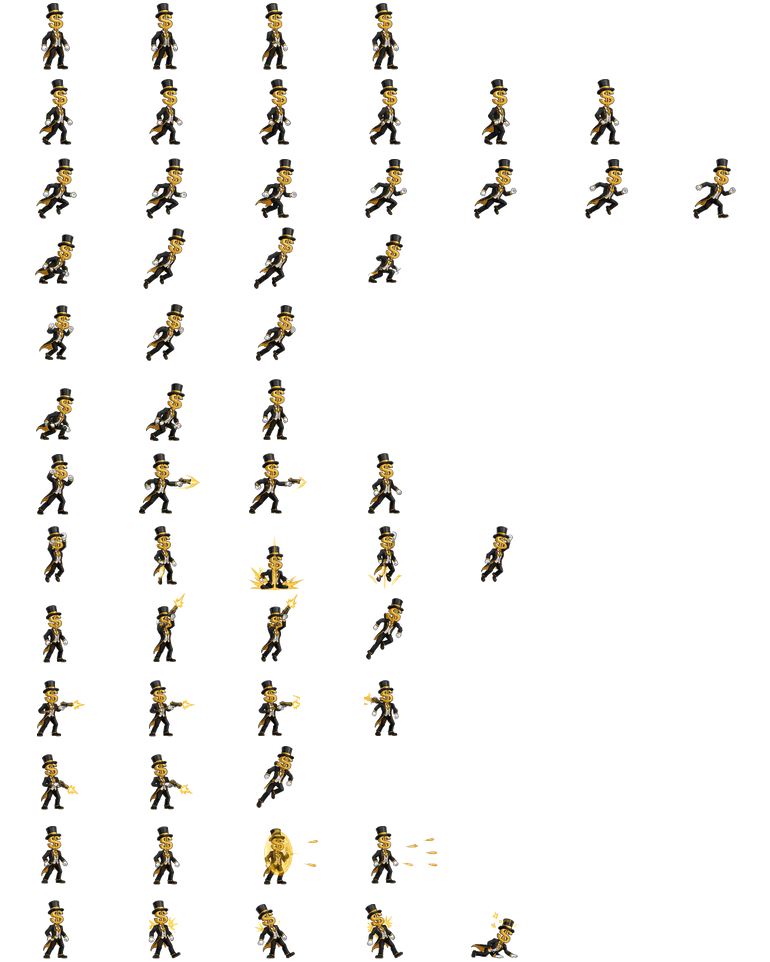
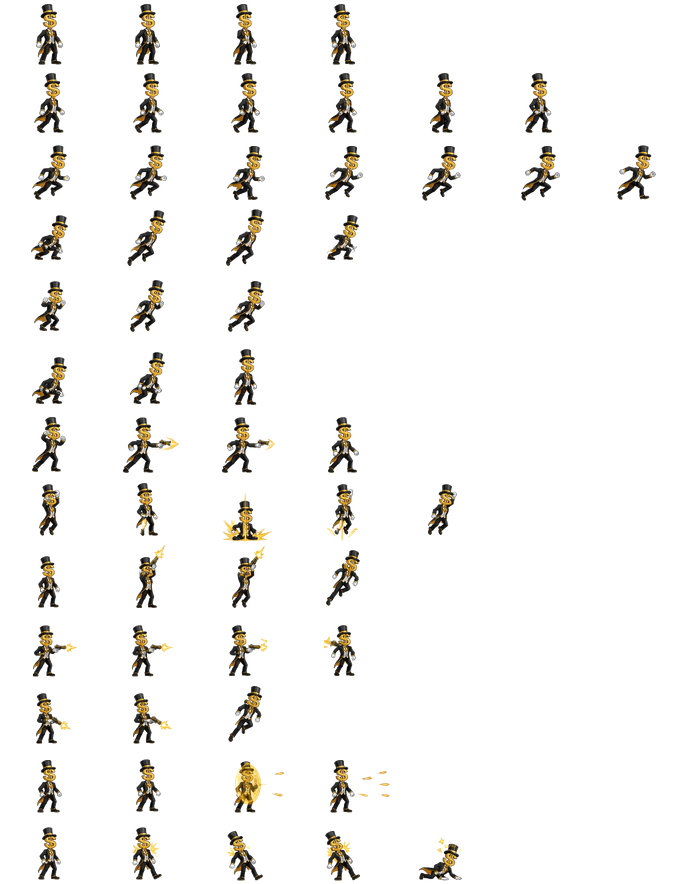
update

diff --git a/src/game.js b/src/game.js
@@ -15,11 +15,12 @@ const CONFIGS = {
   bay: { name: 'BAYONET', maxBW: 70, cost: 28, cd: 240, spread: 0.2, recoil: 480, shotDmg: 1, bashDmg: 2, pogo: 700, stagger: 300, life: 500, desc: '2x Bash dmg, huge pogo | wild spread, 70 BW cap' },
   pre: { name: 'PRECISION', maxBW: 100, cost: 25, cd: 480, spread: 0, recoil: 600, shotDmg: 2, bashDmg: 0.6, pogo: 530, stagger: 1200, life: 1400, desc: 'exact 2-dmg shots | weak Bash that stuns | slow fire' },
 };
-// Revolver is drawn only while firing. Shoulder = fixed offset from Kern's feet (source-art units, scaled by KERN.k); the arm reaches
-// from the shoulder toward the aim point, the gun's grip pivot sits in the glove and the muzzle comes from the sprite, so the gun can
-// never drift from the hand in any animation or direction.
-const GUN_S = 0.6, ARM = 12, SHO = [4, -27];
-const WEAPONS = { std: { px: 9.4, py: 23.0, tx: 46, ty: 21.5 }, pre: { px: 9.8, py: 17.0, tx: 46, ty: 19.0 }, bay: { px: 9.1, py: 24.0, tx: 46, ty: 23.0 } };
+// Revolver is drawn only while firing. The arm is baked into kern3's pointing poses: aim angle -> nearest of E / NE / SE (mirrored for the
+// left side; N reuses NE, S reuses SE) and the gun sits in that pose's glove at the TRUE aim angle, so barrel and bullet always agree.
+// dx/dy = glove position relative to Kern's feet anchor (detected from the art, not eyeballed).
+const GUN_S = 0.58, PX = 62 / 64;
+const POSES = { E: { f: 0, dx: 10.6, dy: -30.1 }, NE: { f: 1, dx: 9.6, dy: -42.2 }, SE: { f: 2, dx: 8.7, dy: -18.3 } };
+const WEAPONS = { std: { px: 9.4, py: 23.0, tx: 46, ty: 21.5 }, pre: { px: 9.8, py: 17.0, tx: 46, ty: 19.0 }, bay: { px: 9.1, py: 23.0, tx: 46, ty: 23.0 } };
 const TEAL = 0x2fe0c8, MID = 0x1d2631, ORG = 0xff8a3d, BLOCK = ['bash', 'dbash', 'rebound', 'parry', 'dmg', 'ko'];
 const Rect = Phaser.Geom.Rectangle, hit = (a, b) => Phaser.Geom.Intersects.RectangleToRectangle(a, b);
 
@@ -28,7 +29,8 @@ class Boot extends Phaser.Scene {
   preload() {
     const t = this.add.text(480, 270, 'LOADING', { fontFamily: 'monospace', fontSize: '18px', color: '#2fe0c8' }).setOrigin(0.5);
     this.load.on('progress', v => t.setText('LOADING ' + Math.round(v * 100) + '%'));
-    this.load.spritesheet('kernsheet', 'assets/kern/kern.png', { frameWidth: KERN.fw, frameHeight: KERN.fh });
+    this.load.spritesheet('kernsheet', 'assets/kern/kern.png', { frameWidth: KERN.fw, frameHeight: KERN.fh }); // painterly: bash + pogo only
+    ['idle', 'aim', 'loco'].forEach(n => this.load.spritesheet('kpx_' + n, 'assets/kern/kern_' + n + '.png', { frameWidth: 64, frameHeight: 64 })); // pixel art
     ['std', 'bay', 'pre'].forEach(k => this.load.image('lw_' + k, 'assets/weapons/lastwords_' + k + '.png'));
     this.load.audio('disc', 'assets/audio/disconnected.mp3');
   }
@@ -53,7 +55,7 @@ class Main extends Phaser.Scene {
     this.cfgKey = this.registry.get('cfg') || 'std'; this.cfg = CONFIGS[this.cfgKey];
     Object.assign(this, { bw: Math.min(this.cfg.maxBW, snap ? snap.bw : 999), hp: snap ? snap.hp : TUNE.hp, now: 0, inv: 0, hurtUntil: 0, recoilUntil: 0, shotCd: 0, bashCd: 0, parryUntil: 0, parryCd: 0,
       coyote: 0, jbuf: 0, jumping: false, curMax: TUNE.walk, gT: 0, bashS: null, dead: false, won: false, menu: false, wantBash: false, noBw: 0, stopped: false, kick: 0, wasG: false, lastVy: 0,
-      act: null, lean: 0, gunUntil: 0, faceLeft: false, cp: !!snap, picked: new Set(snap ? snap.picked : []), killed: new Set(snap ? snap.killed : []) });
+      act: null, lean: 0, barrierFlash: 0, gunUntil: 0, faceLeft: false, cp: !!snap, picked: new Set(snap ? snap.picked : []), killed: new Set(snap ? snap.killed : []) });
     this.safe = snap ? { x: snap.x, y: snap.y } : { x: 120, y: GY - 30 };
     this.physics.world.setBounds(0, 0, W, 1400); cam.setBounds(0, 0, W, H).setBackgroundColor('#0a0e13');
     this.input.mouse.disableContextMenu(); this.input.on('pointerdown', p => { if (p.rightButtonDown()) this.wantBash = true; });
@@ -94,6 +96,15 @@ class Main extends Phaser.Scene {
       const c = this.textures.createCanvas('glow', 64, 64), x = c.getContext(), r = x.createRadialGradient(32, 32, 0, 32, 32, 32);
       r.addColorStop(0, 'rgba(255,255,255,1)'); r.addColorStop(0.35, 'rgba(255,255,255,0.35)'); r.addColorStop(1, 'rgba(255,255,255,0)'); x.fillStyle = r; x.fillRect(0, 0, 64, 64); c.refresh();
     }
+    if (!this.textures.exists('barrier')) {
+      const c = this.textures.createCanvas('barrier', 40, 84), x = c.getContext(), gr = x.createLinearGradient(0, 0, 40, 0);
+      gr.addColorStop(0, 'rgba(47,224,200,0.05)'); gr.addColorStop(1, 'rgba(47,224,200,0.45)');
+      x.fillStyle = gr; x.beginPath(); x.ellipse(4, 42, 30, 38, 0, -Math.PI / 2, Math.PI / 2); x.fill();
+      x.strokeStyle = 'rgba(190,255,248,0.95)'; x.lineWidth = 3; x.beginPath(); x.ellipse(4, 42, 30, 38, 0, -Math.PI / 2, Math.PI / 2); x.stroke();
+      x.strokeStyle = 'rgba(47,224,200,0.35)'; x.lineWidth = 1;
+      for (let y = 10; y < 76; y += 8) { x.beginPath(); x.moveTo(6, y); x.lineTo(4 + 30 * Math.sqrt(1 - ((y - 42) / 38) ** 2) - 2, y); x.stroke(); }
+      c.refresh();
+    }
     mk('bench', 64, 44, g => {
       g.fillStyle(0x10161d).fillRect(2, 24, 60, 6).fillRect(6, 30, 5, 14).fillRect(53, 30, 5, 14).fillStyle(0x2c4151).fillRect(2, 24, 60, 2);
       g.fillStyle(0x0b0f14).fillRect(10, 2, 30, 20).lineStyle(1, TEAL).strokeRect(10.5, 2.5, 29, 19); g.fillStyle(0x1f7f78).fillRect(13, 5, 24, 14).fillStyle(TEAL).fillRect(15, 8, 12, 2).fillRect(15, 12, 18, 2).fillRect(15, 15, 8, 2);
@@ -110,13 +121,12 @@ class Main extends Phaser.Scene {
   }
 
   kernAnims() {
-    const A = (key, name, fps, rep = 0, frames) => {
-      if (this.anims.exists(key)) return;
-      const r = KERN.rows[name], list = frames || [...Array(KERN.n[name]).keys()];
-      this.anims.create({ key, frames: list.map(i => ({ key: 'kernsheet', frame: r * KERN.cols + i })), frameRate: fps, repeat: rep });
-    };
-    A('idle', 'idle', 5, -1); A('walk', 'walk', 10, -1); A('run', 'run', 14, -1); A('jump', 'jump', 16); A('fall', 'fall', 10, -1); A('land', 'land', 24);
-    A('bash', 'bash', 22); A('dbash', 'dbash', 18, 0, [0, 1]); A('rebound', 'dbash', 14, 0, [2, 3, 4]); A('parry', 'parry', 24); A('dmg', 'dmg', 14, 0, [0, 1, 2, 3]); A('ko', 'dmg', 1, 0, [4]);
+    const A = (key, tex, fps, rep, list) => { if (!this.anims.exists(key)) this.anims.create({ key, frames: list.map(i => ({ key: tex, frame: i })), frameRate: fps, repeat: rep }); };
+    const L = (row, n) => [...Array(n).keys()].map(i => row * 7 + i);
+    A('idle', 'kpx_idle', 6, -1, [...Array(16).keys()]); A('walk', 'kpx_loco', 11, -1, L(0, 6)); A('run', 'kpx_loco', 15, -1, L(1, 6)); A('jump', 'kpx_loco', 16, 0, L(2, 4));
+    A('fall', 'kpx_loco', 10, -1, L(3, 3)); A('land', 'kpx_loco', 24, 0, L(4, 3)); A('dmg', 'kpx_loco', 14, 0, L(5, 4)); A('ko', 'kpx_loco', 1, 0, [5 * 7 + 4]); A('parry', 'kpx_idle', 1, 0, [10]);
+    const B = (key, name, fps, list) => { if (!this.anims.exists(key)) this.anims.create({ key, frames: list.map(i => ({ key: 'kernsheet', frame: KERN.rows[name] * KERN.cols + i })), frameRate: fps, repeat: 0 }); };
+    B('bash', 'bash', 22, [0, 1, 2, 3]); B('dbash', 'dbash', 18, [0, 1]); B('rebound', 'dbash', 14, [2, 3, 4]);
   }
 
   level() {
@@ -156,8 +166,8 @@ class Main extends Phaser.Scene {
   spawn() {
     const snap = this.registry.get('snap'), P = this.P = this.physics.add.sprite(snap ? snap.x : 120, snap ? snap.y : GY - 26, 'dot').setVisible(false);
     P.body.setSize(BODY.w, BODY.h).setMaxVelocity(TUNE.maxVel, 900); P.setCollideWorldBounds(true);
-    this.vis = this.add.sprite(P.x, P.y + BODY.h / 2, 'kernsheet', 0).setOrigin(0.5, KERN.ay / KERN.fh).setDepth(4).play('idle');
-    this.arm = this.add.graphics().setDepth(4.5); this.glove = this.add.graphics().setDepth(5.5); this.gunS = this.add.sprite(0, 0, 'lw_' + this.cfgKey).setDepth(5).setVisible(false);
+    this.vis = this.add.sprite(P.x, P.y + BODY.h / 2, 'kpx_idle', 0).setOrigin(0.5, PX).setDepth(4).play('idle');
+    this.barrier = this.add.image(0, 0, 'barrier').setBlendMode(Phaser.BlendModes.ADD).setDepth(6).setVisible(false); this.gunS = this.add.sprite(0, 0, 'lw_' + this.cfgKey).setDepth(5).setVisible(false);
     this.pl = this.add.image(P.x, P.y, 'glow').setTint(TEAL).setScale(5).setAlpha(0.1).setBlendMode(Phaser.BlendModes.ADD).setDepth(3);
     this.fx = this.add.graphics().setDepth(6); this.eg = this.add.graphics().setDepth(7);
     this.bullets = this.physics.add.group({ allowGravity: false }); this.bolts = this.physics.add.group({ allowGravity: false });
@@ -184,11 +194,16 @@ class Main extends Phaser.Scene {
     this.objT.setText(this.won ? 'EXPEDITION COMPLETE' : this.cp ? 'OBJECTIVE: climb to the EXIT (top right)' : 'OBJECTIVE: reach the CHECKPOINT, then the EXIT');
   }
 
+  aimPose(ang) {
+    const el = Math.atan2(Math.sin(ang), Math.abs(Math.cos(ang))), p = el < -0.39 ? POSES.NE : el > 0.39 ? POSES.SE : POSES.E;
+    return { ...p, left: Math.abs(ang) > Math.PI / 2 };
+  }
+
   gunGeom(ang) {
-    const V = this.vis, k = KERN.k, fl = this.faceLeft ? -1 : 1, wp = WEAPONS[this.cfgKey], left = Math.abs(ang) > Math.PI / 2;
-    const sx = V.x + SHO[0] * k * fl, sy = V.y + SHO[1] * k, reach = (ARM - this.kick) * k, hx = sx + Math.cos(ang) * reach, hy = sy + Math.sin(ang) * reach;
+    const V = this.vis, wp = WEAPONS[this.cfgKey], p = this.aimPose(ang), left = p.left, fl = left ? -1 : 1;
+    const hx = V.x + p.dx * fl - Math.cos(ang) * this.kick, hy = V.y + p.dy - Math.sin(ang) * this.kick;
     const tv = new Phaser.Math.Vector2((wp.tx - wp.px) * GUN_S, (wp.ty - wp.py) * GUN_S * (left ? -1 : 1)).rotate(ang);
-    return { sx, sy, hx, hy, mx: hx + tv.x, my: hy + tv.y, left, wp };
+    return { hx, hy, mx: hx + tv.x, my: hy + tv.y, left, wp, p };
   }
 
   update(time, delta) {
@@ -203,7 +218,7 @@ class Main extends Phaser.Scene {
 
     const grounded = b.blocked.down, ptr = this.input.activePointer, k = KERN.k, feet = P.y + BODY.h / 2;
     const ax = (dn('right') ? 1 : 0) - (dn('left') ? 1 : 0);
-    const sx = V.x + SHO[0] * k * (this.faceLeft ? -1 : 1), sy = V.y + SHO[1] * k; let ang;
+    const sx = V.x, sy = V.y - 36; let ang;
     if (T.on) ang = T.aim.on ? Math.atan2(T.aim.y, T.aim.x) : (this.faceLeft ? Math.PI : 0); else { ptr.updateWorldPoint(cam); ang = Math.atan2(ptr.worldY - sy, ptr.worldX - sx); }
     this.faceLeft = T.on ? (T.aim.on ? Math.abs(ang) > Math.PI / 2 : (ax ? ax < 0 : this.faceLeft)) : Math.abs(ang) > Math.PI / 2;
     if (grounded && !this.wasG && this.lastVy > 260) { this.dust(P.x, feet, 7); this.playAct('land', 130, true); } this.wasG = grounded; this.lastVy = b.velocity.y;
@@ -237,8 +252,7 @@ class Main extends Phaser.Scene {
       }
       if (dd && !B.pogo) for (const s of this.sr.concat(this.spikes)) if (hit(r, s)) { this.pogo(B); break; }
     }
-    if (t < this.parryUntil) f.lineStyle(3, TEAL, 0.9).strokeCircle(P.x, P.y, 34);
-    if (t < this.recoilUntil) { const g = this.add.image(V.x, V.y, 'kernsheet', V.frame.name).setOrigin(V.originX, V.originY).setFlipX(V.flipX).setAngle(V.angle).setTintFill(TEAL).setAlpha(0.4).setBlendMode(Phaser.BlendModes.ADD).setDepth(3); this.tweens.add({ targets: g, alpha: 0, duration: 200, onComplete: () => g.destroy() }); }
+    if (t < this.recoilUntil) { const g = this.add.image(V.x, V.y, V.texture.key, V.frame.name).setOrigin(V.originX, V.originY).setFlipX(V.flipX).setAngle(V.angle).setTintFill(TEAL).setAlpha(0.4).setBlendMode(Phaser.BlendModes.ADD).setDepth(3); this.tweens.add({ targets: g, alpha: 0, duration: 200, onComplete: () => g.destroy() }); }
 
     // body animation (feet-anchored art on the hidden physics body; animation never touches collision)
     const bsw = B && t < B.until, wl = bsw && B.dir === 'h' ? B.face < 0 : this.faceLeft, spd = Math.abs(b.velocity.x);
@@ -247,15 +261,16 @@ class Main extends Phaser.Scene {
     V.anims.timeScale = !acting && (an === 'run' || an === 'walk') ? Phaser.Math.Clamp(spd / (an === 'run' ? TUNE.run : TUNE.walk), 0.6, 1.4) : 1;
     this.lean -= this.lean * Math.min(1, 10 * dt);
     V.setPosition(P.x, feet).setFlipX(wl).setAngle(this.lean).setAlpha(t < this.inv && Math.floor(t / 80) % 2 ? 0.4 : 1);
-    this.pl.setPosition(P.x, P.y);
+    this.pl.setPosition(P.x, P.y); const o = V.texture.key === 'kernsheet' ? KERN.ay / KERN.fh : PX; V.setOrigin(0.5, o);
+    const bf = t < this.barrierFlash; // parry = idle pose + VIGIL barrier
+    this.barrier.setVisible(t < this.parryUntil || bf).setPosition(P.x + (this.faceLeft ? -28 : 28), P.y - 6).setFlipX(this.faceLeft).setAlpha(bf ? 1 : 0.55 + 0.25 * Math.sin(t / 25)).setScale(bf ? 1.3 : 1);
 
-    // revolver: visible only while firing, hand-anchored (see GUN constants)
+    // revolver + aim arm: only while firing (arm = kern3 pose chosen from the aim angle, gun in its glove)
     const g = this.gunGeom(ang), show = t < this.gunUntil && !(acting && BLOCK.includes(this.act.k));
-    this.kick = Math.max(0, this.kick - 40 * dt); this.arm.clear(); this.glove.clear(); this.gunS.setVisible(show);
+    this.kick = Math.max(0, this.kick - 40 * dt); this.gunS.setVisible(show);
     if (show) {
-      this.arm.lineStyle(7, 0x0b0b10).lineBetween(g.sx, g.sy, g.hx, g.hy);
+      V.anims.stop(); V.setTexture('kpx_aim', g.p.f).setOrigin(0.5, PX).setFlipX(g.left);
       this.gunS.setScale(GUN_S).setOrigin(g.wp.px / 48, g.wp.py / 48).setPosition(g.hx, g.hy).setRotation(ang).setFlipY(g.left).setAlpha(Math.min(1, (this.gunUntil - t) / 90));
-      this.glove.fillStyle(0xf2f2ee).fillCircle(g.hx, g.hy, 4.5).lineStyle(1, 0x0b0b10).strokeCircle(g.hx, g.hy, 4.5);
       if (this.cfgKey === 'pre') f.lineStyle(1, TEAL, 0.3).lineBetween(g.mx, g.my, g.mx + Math.cos(ang) * 240, g.my + Math.sin(ang) * 240);
     }
 
@@ -317,7 +332,7 @@ class Main extends Phaser.Scene {
   }
 
   parryOK(t) {
-    this.parryCd = 0; this.inv = t + 300; const P = this.P;
+    this.parryCd = 0; this.inv = t + 300; this.barrierFlash = t + 180; const P = this.P;
     this.ring(P.x, P.y, TEAL, 10, 70, 260); this.ring(P.x, P.y, 0xffffff, 6, 44, 200); this.burst(P.x, P.y, TEAL, 14); this.pop(P.x, P.y - 44, 'PARRY', '#2fe0c8'); this.cameras.main.flash(90, 47, 224, 200);
     beep(this, 880, 1760, 0.12, 'triangle', 0.12); this.time.delayedCall(70, () => beep(this, 1320, 2640, 0.14, 'triangle', 0.1)); this.hitstop(70);
   }

diff --git a/src/title.js b/src/title.js
@@ -29,7 +29,7 @@ export class Title extends Phaser.Scene {
     this.dig = ['4', '0', '3'].map((c, i) => A.text(500 + (i - 1) * 42, 372, c, font(66, '#e8e2d0', 1)).setOrigin(0.5));
     this.days = A.text(500, 420, 'DAYS SINCE THE CASCADE', font(18, '#a9c7c3')).setOrigin(0.5).setLetterSpacing(2);
     A.rectangle(0, 500, 960, 40, 0x0b0f14).setOrigin(0);
-    this.kern = A.sprite(85, 500, 'kernsheet', 0).setOrigin(0.5, KERN.ay / KERN.fh).setScale(2).play('idle');
+    this.kern = A.sprite(85, 500, 'kpx_idle', 0).setOrigin(0.5, 62 / 64).setScale(2).play('idle');
     [[480, 262, 14], [260, 240, 6], [740, 330, 6]].forEach(([x, y, sc], i) => { const gl = A.image(x, y, 'glow').setTint(0x2fe0c8).setScale(sc).setAlpha(0.12).setBlendMode(Phaser.BlendModes.ADD); this.tweens.add({ targets: gl, alpha: 0.2, duration: 1800 + i * 500, yoyo: true, repeat: -1 }); });
     for (let i = 0; i < 16; i++) { const d = A.image(Phaser.Math.Between(150, 850), Phaser.Math.Between(120, 480), 'dot').setTint(0x2fe0c8).setAlpha(0.3).setBlendMode(Phaser.BlendModes.ADD); this.tweens.add({ targets: d, y: d.y - 40, alpha: 0, duration: Phaser.Math.Between(3000, 6000), repeat: -1, delay: i * 200 }); }
     this.items = ['START EXPEDITION', 'CONTROLS'].map((txt, i) => {
@@ -47,7 +47,7 @@ export class Title extends Phaser.Scene {
   start() {
     this.busy = true; beep(this, 500, 900, 0.1, 'triangle'); const k = this.kern, d3 = this.dig[2];
     k.play('run'); this.tweens.add({ targets: k, x: d3.x - 120, duration: 1300, ease: 'Sine.easeInOut', onComplete: () => {
-      k.anims.stop(); k.setFrame(KERN.rows.bash * KERN.cols); const g = this.add.graphics().setDepth(5), p = { t: 0 };
+      k.anims.stop(); k.setTexture('kpx_aim', 1); const g = this.add.graphics().setDepth(5), p = { t: 0 };
       this.tweens.add({ targets: p, t: 1, duration: 520, onUpdate: () => {
         const x0 = d3.x - 24, y0 = d3.y - 38, x1 = d3.x + 24, y1 = d3.y + 38, q = Math.min(1, p.t * 2), r = Math.max(0, p.t * 2 - 1);
         g.clear().lineStyle(5, 0xff4030).lineBetween(x0, y0, x0 + (x1 - x0) * q, y0 + (y1 - y0) * q); if (r > 0) g.lineBetween(x1, y0, x1 + (x0 - x1) * r, y0 + (y1 - y0) * r);

diff --git a/src/shared.js b/src/shared.js
@@ -1,5 +1,5 @@
 // Shared constants/helpers. Uses the global Phaser (main.js sets window.Phaser first).
-export const KERN = { fw: 110, fh: 74, ay: 70, cols: 7, k: 0.6 / 0.42, rows: { idle: 0, walk: 1, run: 2, jump: 3, fall: 4, land: 5, bash: 6, dbash: 7, shoot_up: 8, shoot_side: 9, shoot_down: 10, parry: 11, dmg: 12 }, n: { idle: 4, walk: 6, run: 7, jump: 4, fall: 3, land: 3, bash: 4, dbash: 5, shoot_up: 4, shoot_side: 4, shoot_down: 3, parry: 4, dmg: 5 } };
+export const KERN = { fw: 98, fh: 68, ay: 64, cols: 7, k: 0.545 / 0.42, rows: { idle: 0, walk: 1, run: 2, jump: 3, fall: 4, land: 5, bash: 6, dbash: 7, shoot_up: 8, shoot_side: 9, shoot_down: 10, parry: 11, dmg: 12 }, n: { idle: 4, walk: 6, run: 7, jump: 4, fall: 3, land: 3, bash: 4, dbash: 5, shoot_up: 4, shoot_side: 4, shoot_down: 3, parry: 4, dmg: 5 } };
 // [primary (rebindable), ...fixed alternates]. Parry = F: index finger on the home row, no clash with WASD/Space/Shift/K.
 export const KEYS = { left: ['A', 'LEFT'], right: ['D', 'RIGHT'], up: ['W', 'UP'], down: ['S', 'DOWN'], jump: ['SPACE'], bash: ['K'], parry: ['F'], run: ['SHIFT'], interact: ['E'], restart: ['R'] };
 const LS = 'lastcommit.keys.v1';

diff --git a/README.md b/README.md
@@ -17,3 +17,8 @@ Checkpoint = exact snapshot (Bandwidth, HP, pickups, kills). Dying rewinds to it
 
 ## Known gaps
 Not run in a browser by the author of this pass (syntax-checked only). Touch can't open the workbench menu yet. No temporary upgrades exist yet to snapshot.
+
+## Character art (pixel art, native 64x64 cells)
+Idle = kern2 (16 frames). Aiming = kern3 pointing poses (E / NE / SE, mirrored left; N reuses NE, S reuses SE) with the revolver in the glove, shown only while firing.
+Walk / run / jump / fall / land / damage frames were drawn from the idle sprite's palette (SpriteCook is not wired into this workflow). Parry = idle pose + teal VIGIL barrier.
+Bash and pogo still use the older painterly frames (kept unchanged, resized to match). Kern is drawn 1:1 (about 60px tall) so the pixel art stays sharp; a larger Kern would mean scaling the whole world, so for now the camera just follows him.
